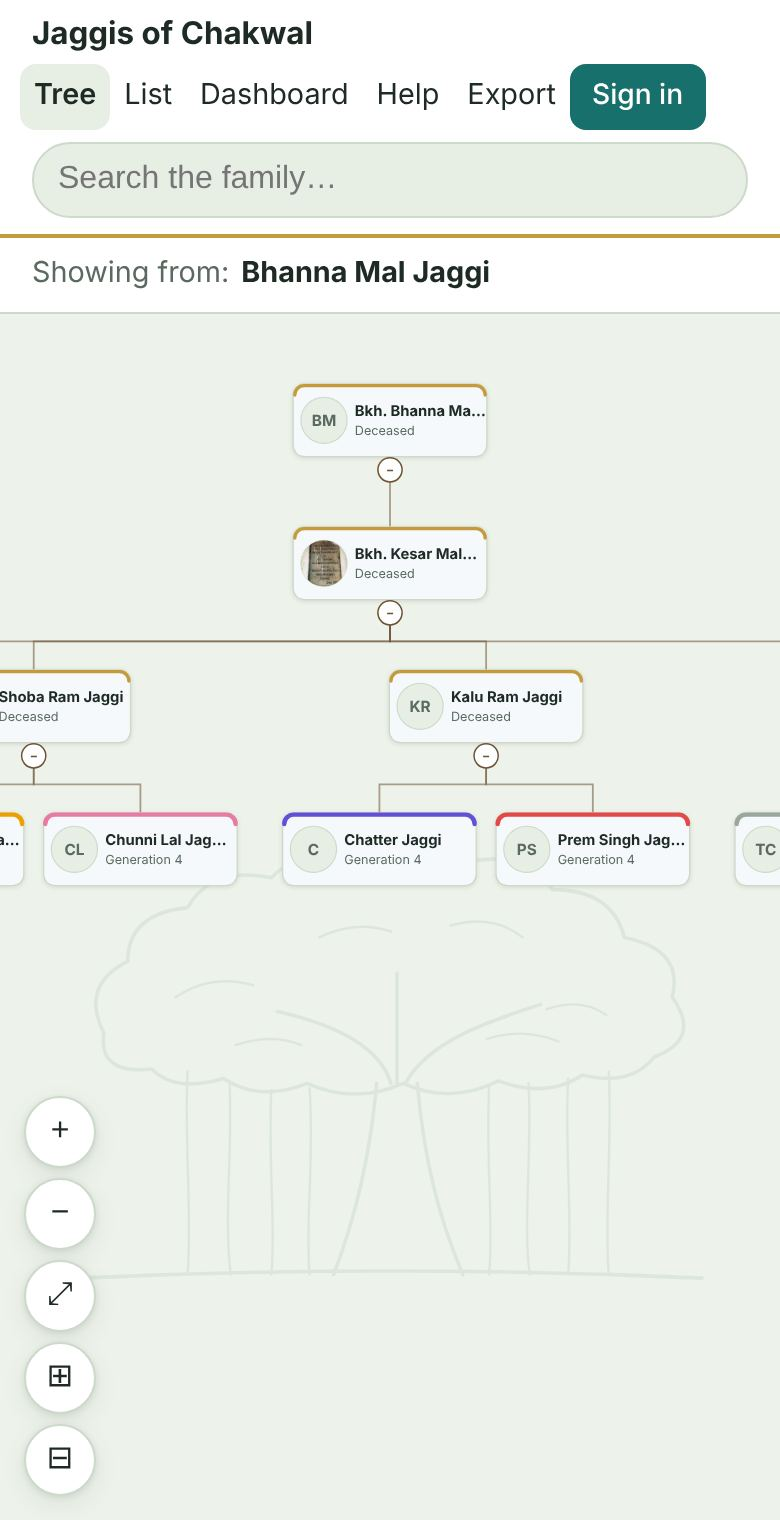
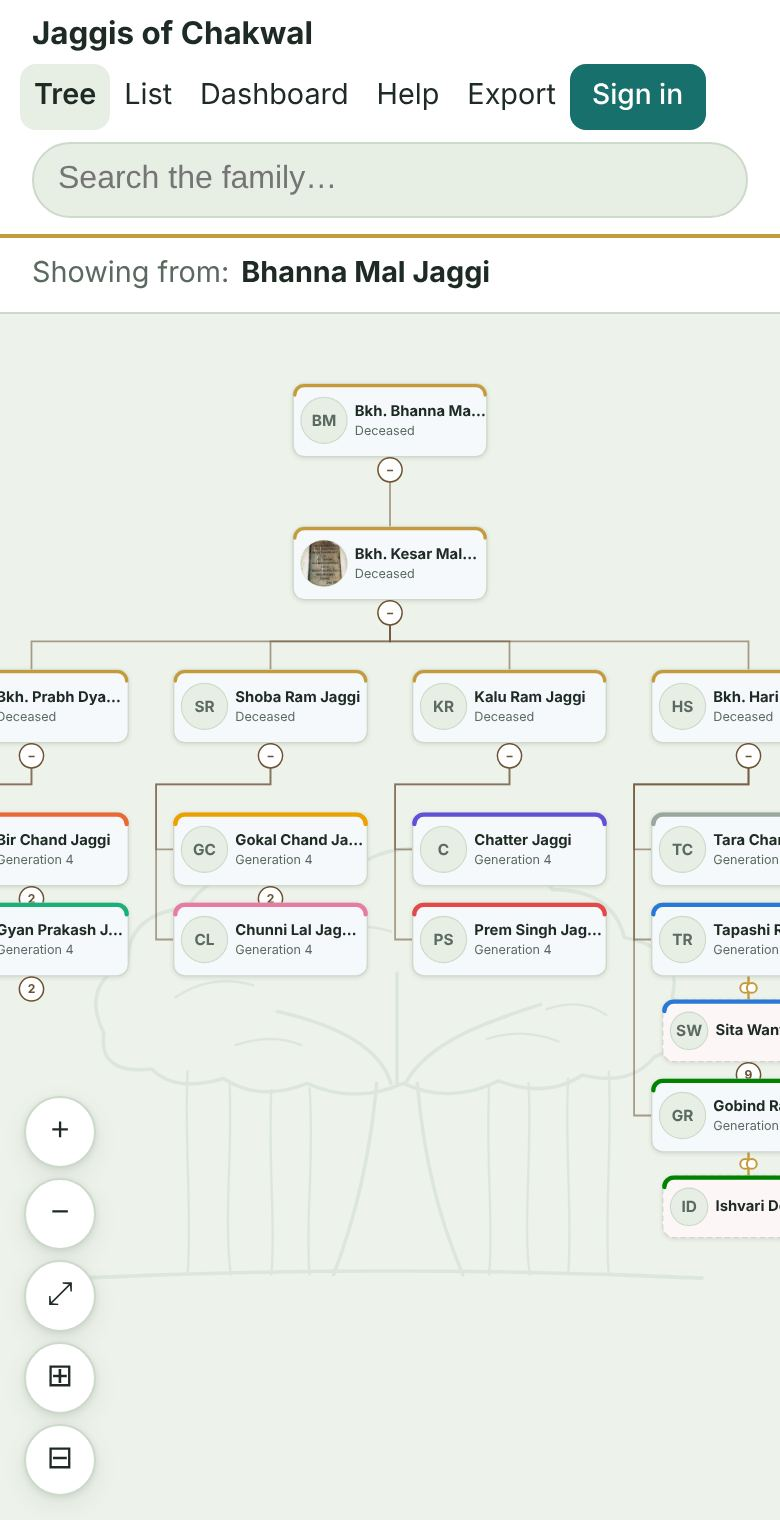
Tree: compact layout by default (stacked children, spouses below)
Claude-Session: https://claude.ai/code/session_01JLtp1VAE6cD4aaLHUpnewB

Changed region(s): [[0.0, 0.402, 1.0, 0.8039]]

diff --git a/site/help.html b/site/help.html
@@ -88,7 +88,7 @@
       <li><strong>Open a family:</strong> the small round button under a person shows how many children they have. Tap it to show or hide them.</li>
       <li><strong>See a person's details:</strong> tap their card. Their parents, spouse, children and siblings are listed, and you can tap any of them.</li>
       <li><strong>Edit straight from the tree:</strong> when you are signed in, each box has a small pencil in its top corner. Tap it to open that person's edit form. It works the same as <span class="ui">Suggest an edit</span> on their card, and changes still wait for the admin's approval.</li>
-      <li><strong>Husbands and wives:</strong> someone who married into the family has their own smaller box with a dashed edge, joined to their partner by two gold rings. Their children hang from the rings. Tap the box to see or add their details and photo.</li>
+      <li><strong>Husbands and wives:</strong> someone who married into the family has their own smaller box with a dashed edge, just below their partner and joined to them by two gold rings. Their children hang below the couple. Children who have no children showing yet are listed in a column, so the tree stays narrow; tap the number under a box to open that family. Tap the box to see or add their details and photo.</li>
       <li><strong>Find someone:</strong> type a name in <span class="ui">Search the family</span>. Different spellings, like Parkash and Prakash, still find them.</li>
       <li><strong>Start the tree from one person:</strong> open their details and tap <span class="ui">Show tree from here</span>. The line at the top shows their ancestors; tap any name there to go back up, or <span class="ui">Whole tree</span>.</li>
       <li><strong>List view:</strong> tap <span class="ui">List</span> at the top for a simple indented list, which is easier to read on a small phone.</li>

diff --git a/site/js/tree.js b/site/js/tree.js
@@ -29,7 +29,7 @@ export function layoutMode() {
     if (ok.includes(m)) localStorage.setItem('layout', m);
     else m = localStorage.getItem('layout');
   } catch { /* storage blocked */ }
-  return ok.includes(m) ? m : 'wide';
+  return ok.includes(m) ? m : 'compact';
 }
 const SPOUSE = { inside: null, side: { w: W, h: H, r: 21 }, mini: { w: 156, h: 56, r: 17 } };
 export function spouseMode() {
